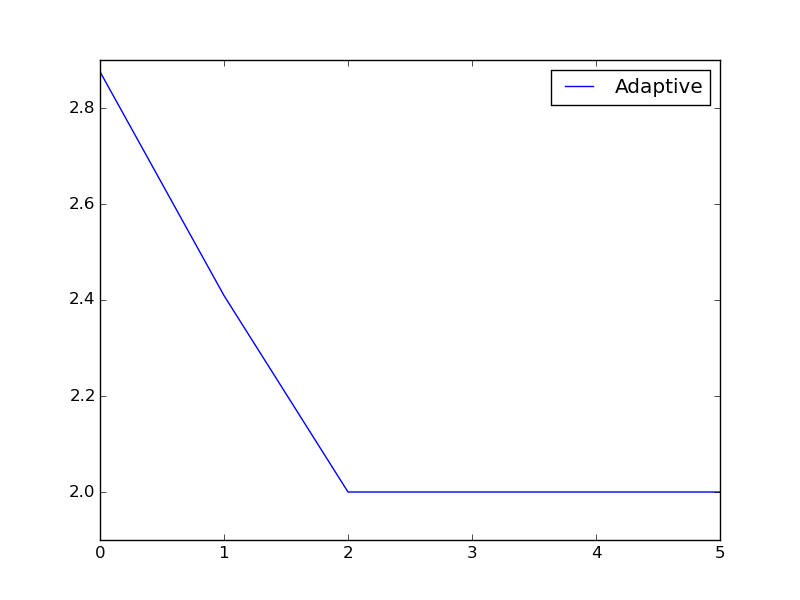
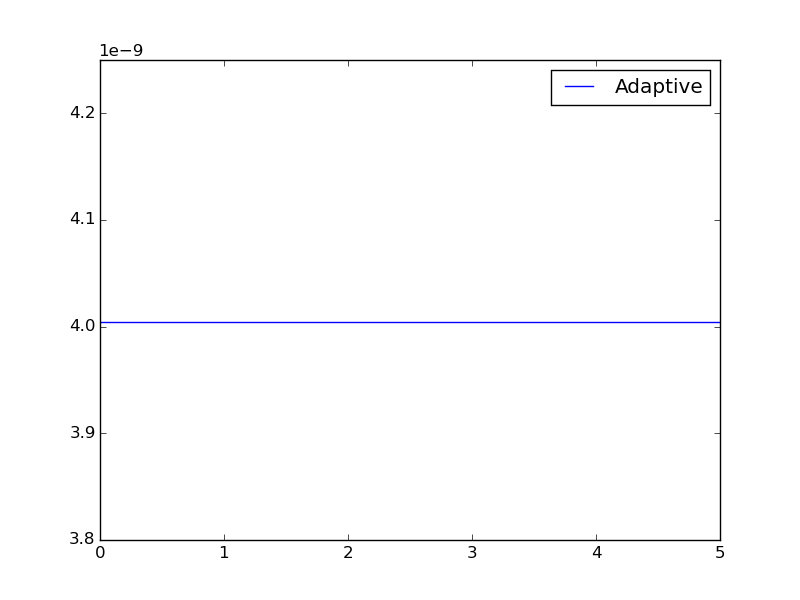
eighth

diff --git a/SparseGrid/SparseGridCode/growth_model/serial_adap/compare_method.py b/SparseGrid/SparseGridCode/growth_model/serial_adap/compare_method.py
@@ -86,7 +86,8 @@ def compare_method(f, c, w, iDim, iOut, iDepth, refinement_level):
     plt.close()
 
 def f(x, c, w):
-    rv = np.cos(2 * np.pi * w[0] + np.dot(c, x))
+    #rv = np.cos(2 * np.pi * w[0] + np.dot(c, x))
+    rv = np.exp(-np.dot(c**2, (x - w)**2))
     return rv
     
 
